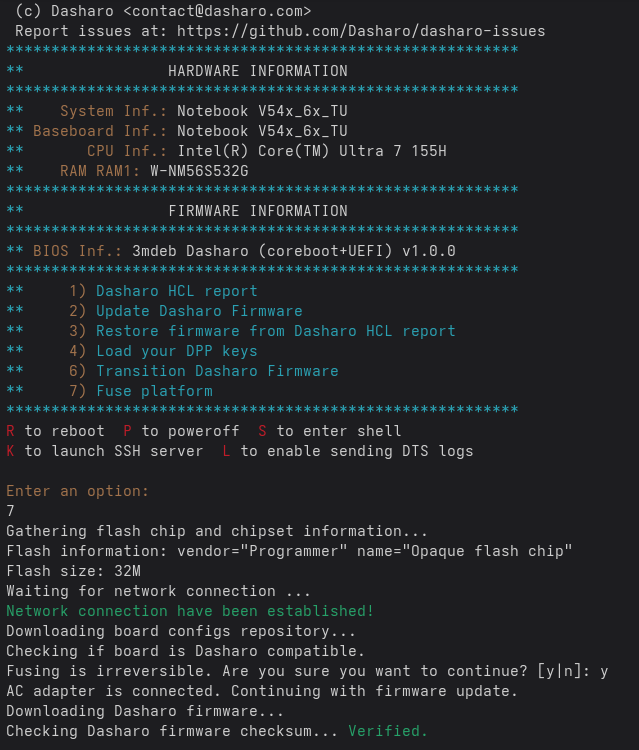
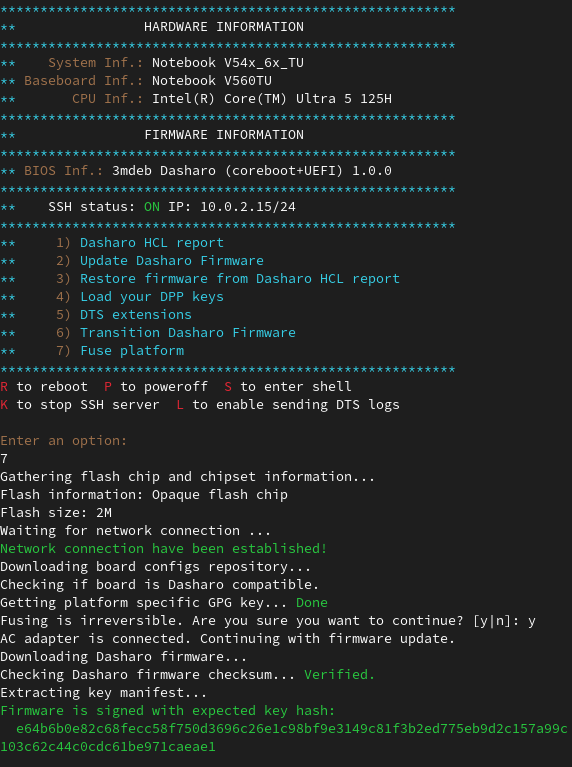
docs: dts: features: update IBG verification & fuse workflow screenshots

diff --git a/docs/dasharo-tools-suite/documentation/features.md b/docs/dasharo-tools-suite/documentation/features.md
@@ -521,15 +521,20 @@ To perform fusing procedure:
 It's possible to verify which keys currently running firmware is signed with:
 
 1. Enter the shell in DTS
-
 1. Execute `btg_key_validator`
 
 Example output:
 
 ```bash
+Waiting for network connection ...
+Network connection have been established!
+Downloading board configs repository...
+Checking if board is Dasharo compatible.
 Reading flash...
 Extracting key manifest...
-Key matches NovaCustom Meteor Lake signing key.
+Firmware is signed with expected key hash:
[1 lines of base64/hex data omitted]
+c0cdc61be971caeae1
 ```
 
 The script will output information whether the platform firmware is signed with
